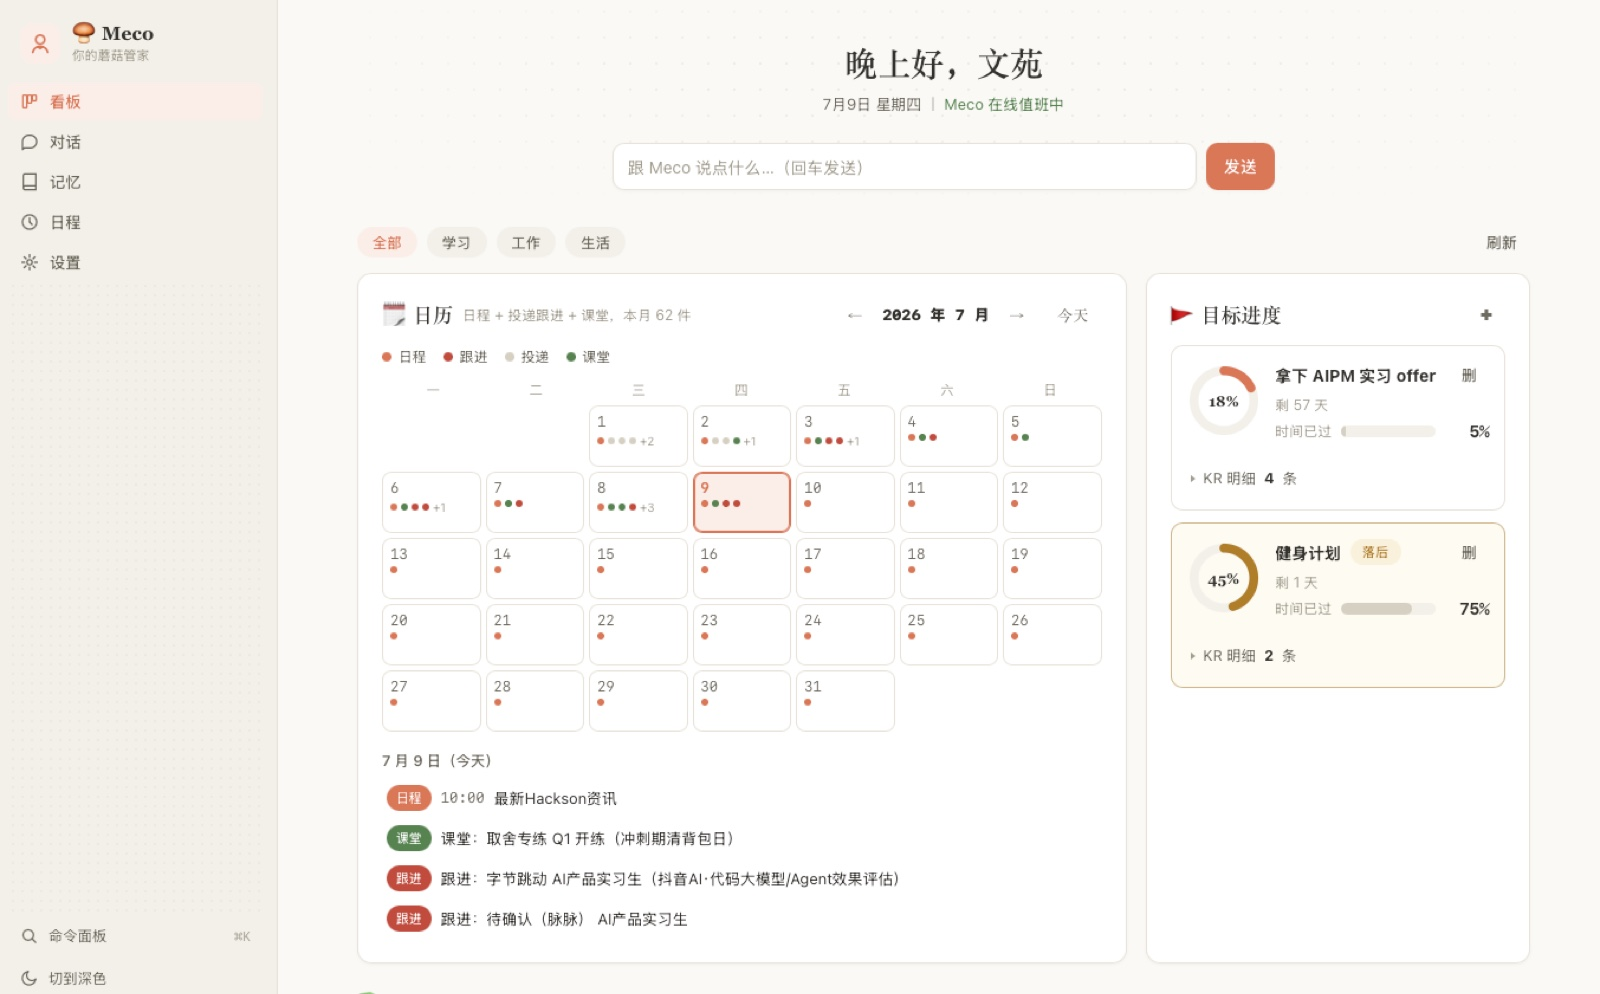
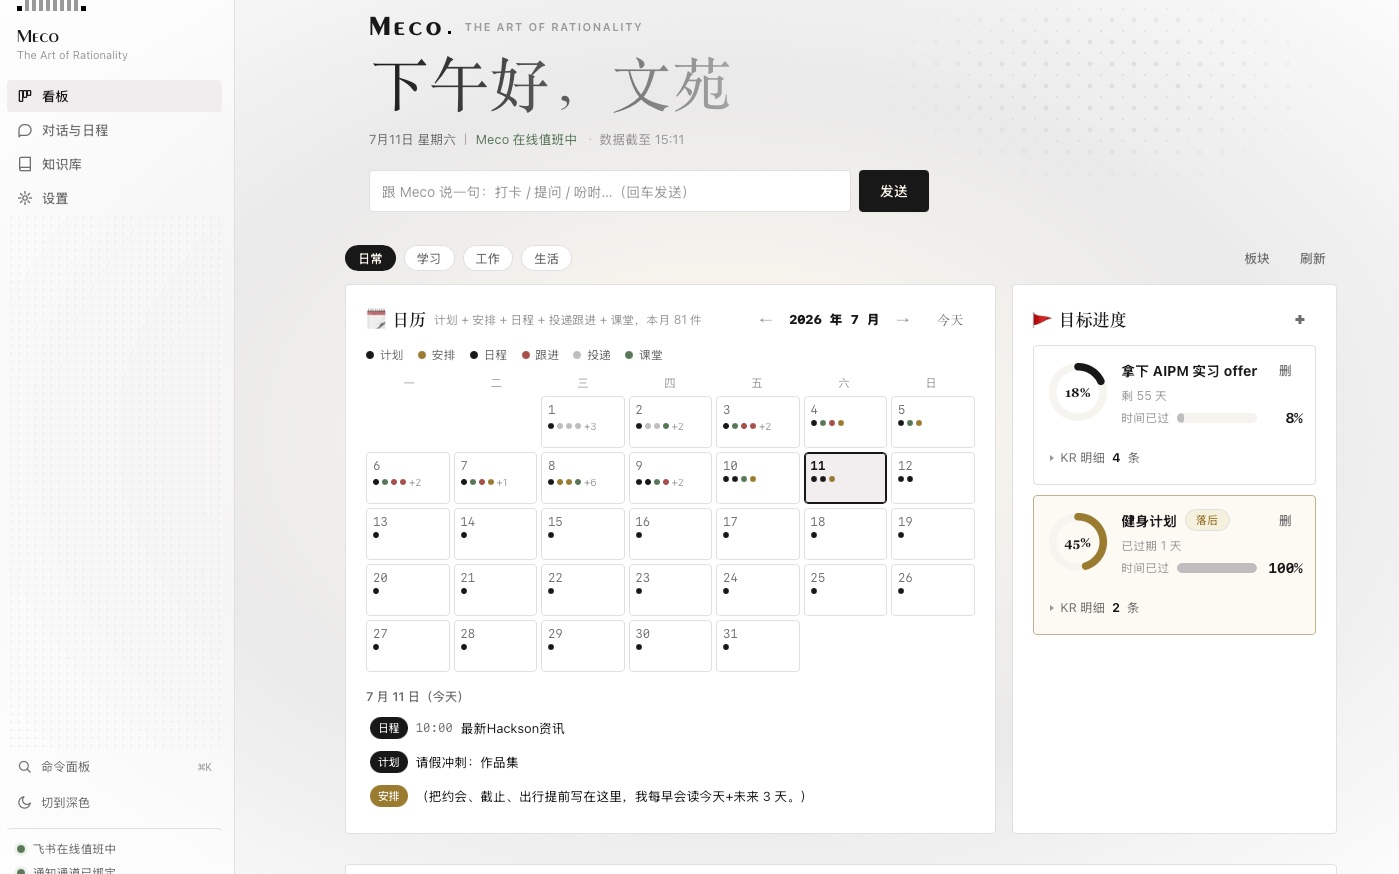
Meco 升级文案与天平线稿接线 · UABB 场景截图入库开 mapped（作品集 23→25 页）

diff --git a/js/project-detail.js b/js/project-detail.js
@@ -10,7 +10,7 @@
      指标带+落地页说明头+落地页大图）→ 线稿块 → 场景行模块 →
      影片块+STACK。连续网页流（照 architecture.html 阅读器），非 A4；
      作品集没放的内容（meta 行/tags/旧内容长图/图注球）画廊也不放。
-   ② 经典模式（建筑作品 + 未开 mapped 的 UABB）：头部（标题/keywords/
+   ② 经典模式（建筑作品）：头部（标题/keywords/
      奖项/Meta/tags）→ 媒体块 → 正文（缺段回退 full_description）→
      Tech Stack → 内容长图 + 文字球。
    ════════════════════════════════════════════════════════════ */

diff --git a/CLAUDE.md b/CLAUDE.md
@@ -44,8 +44,8 @@
 - **立方体面必须实底白**（var(--c-white)）——透明 PNG 封面（梨/拼图）会透出对面；六面=Pears/Co-work/议见/环世界/风贯立方/品牌 SVG（UABB 魔方图不上立方体，用户裁定）
 - 建筑翻页图（content/）一律取**母版完整版面（带页边白）**，不做去白边裁切——上桥曾因裁掉顶部白边与其他五作不一致（2026-07-06 已重导）
 - 详情页两种形态（2026-07-10 起）：
-  - **作品集映射模式**（`portfolio.json products[].mapped=true`，现 Pears/Co-work/议见/Meco 四作）：详情页与作品集页**同一事实源同一排版**——kicker+Monterey 标题+↗+keywords → 顶部视频门面（Pears/Co-work 保持视频在开头，与结尾影片块构成同一入口的两次出现，用户裁定没关系）→ 封面块（tldr 双栏+封面方图+奖项+指标带+落地页说明头+落地页大图）→ 线稿块 → 场景行模块（复用 portfolio.json scenes/rows 语法）→ 影片块（点击就地播放）+STACK。连续网页流照 architecture.html（非 A4），浮出动效照首页（IO + opacity/transform）；**作品集没放的内容（meta 行/tags/旧内容长图/文字球）画廊也不放**，此后两页共同管理，改场景/截图只改 portfolio.json、改文案只改 projects.json。样式在 project-detail.css 的 `.pd-mapped` 段；UABB 产品截图补齐后把 mapped 打开即可同款升级。
-  - **经典模式**（建筑作品 + 未开 mapped 的 UABB）：Monterey 大标题+↗ → 斜体开场段（左对齐引线）→ 章节 h2（衬线）+通栏细线 → 「—」列表（行首「标签：」≤10 字自动加粗）→ 小型大写技术栈 → 白卡图版容器+图注+文字球
+  - **作品集映射模式**（`portfolio.json products[].mapped=true`，现 Pears/Co-work/议见/Meco/UABB 五作全开）：详情页与作品集页**同一事实源同一排版**——kicker+Monterey 标题+↗+keywords → 顶部视频门面（Pears/Co-work 保持视频在开头，与结尾影片块构成同一入口的两次出现，用户裁定没关系）→ 封面块（tldr 双栏+封面方图+奖项+指标带+落地页说明头+落地页大图）→ 线稿块 → 场景行模块（复用 portfolio.json scenes/rows 语法）→ 影片块（点击就地播放）+STACK。连续网页流照 architecture.html（非 A4），浮出动效照首页（IO + opacity/transform）；**作品集没放的内容（meta 行/tags/旧内容长图/文字球）画廊也不放**，此后两页共同管理，改场景/截图只改 portfolio.json、改文案只改 projects.json。样式在 project-detail.css 的 `.pd-mapped` 段。
+  - **经典模式**（建筑作品）：Monterey 大标题+↗ → 斜体开场段（左对齐引线）→ 章节 h2（衬线）+通栏细线 → 「—」列表（行首「标签：」≤10 字自动加粗）→ 小型大写技术栈 → 白卡图版容器+图注+文字球
 - 字体：MontereyFLF woff2×3（拉丁 unicode-range，中文落系统栈）+ Garamond/Georgia 衬线
 
 ## 移动端与触屏（2026-07-07 定稿）
@@ -68,16 +68,16 @@
 
 - **同步铁律**：产品文案（title/one_liner/七段 sections/tech_stack/keywords/award/url）一律运行时 join `config/projects.json`；`config/portfolio.json` 只放作品集特有信息（页序=products 数组序、场景 rows、截图清单+ratio、窗框 frame、指标带 metrics、lineart、个人页 profile、建筑矩阵）。**改产品文案永远改 projects.json**，两边自动同步；`tests/portfolio.test.mjs` 守卫禁文案漂移。
 - **正文页横向行模块铁律（2026-07-08 三轮用户裁定，勿再做左右双栏正文）**：场景页 = 页头（kicker+sec-h）+ 行模块纵向依次码放，每行横向满宽，行只有六种——`{text:true}` 一文 / `{text:true,img:i,img_mm}` 一文一图（少数）/ `{imgs:[i]}` 一图 / 两图 / 三图（等高对齐 flex-grow=ratio）/ `{sec:"节名"}` 独立文字节模块（自带 sec-h 标题引用另一节文案，2026-07-10：画廊详情里写了的节，作品集必须都有）。配置在 `scenes[].rows`（下标引用 images，每图恰好引用一次；sec 必须命中五节之一，tests 守卫）。二迭代的 split/split-band 双栏被用户整体推翻，勿恢复。
-- **版式**：A4 定版 `.sheet`（mm 页盒 + overflow:hidden + break-after:page），共 **23 页**（2026-07-10 补回 Why/核心贡献等未上页文案后）；文案改长会触发溢出探测（屏显红描边 + console.warn），别让它默默裁切。**六作体系**：rail/INDEX 01-06，第 06 项=建筑合集（JS 由 architecture 合成，products 保持 5 项）。**索引双档**：产品封面页=完整 26mm rail；场景/线稿/建筑页=极简 rail（`.rail--mini`，主区加宽到 167mm）。
+- **版式**：A4 定版 `.sheet`（mm 页盒 + overflow:hidden + break-after:page），共 **25 页**（2026-07-11 UABB 产品截图入库、拆 3 场景页后）；文案改长会触发溢出探测（屏显红描边 + console.warn），别让它默默裁切。**六作体系**：rail/INDEX 01-06，第 06 项=建筑合集（JS 由 architecture 合成，products 保持 5 项）。**索引双档**：产品封面页=完整 26mm rail；场景/线稿/建筑页=极简 rail（`.rail--mini`，主区加宽到 167mm）。
 - **作品封面统一紧凑模板**：kicker→标题→keywords→双栏（左 tldr｜右封面方图+奖项）→指标带→**落地页说明头**（小标签「落地页 · THE LANDING PAGE」+ **英文大标题 lede_en（拉丁 Monterey）+ 中文解释 lede_zh 小注**——六轮修正：必须走「英文大标+中文解释」全站口径，话术有人味如「Click once — the agents do the rest. / 点击，然后让 Agent 替你干活。」，用户会自己调词）→底部主要落地页大图+图注；metrics/cover **有字段才渲染**——占位作品日后补字段即自动升级，零代码。（one_liner 不在封面：见线稿块的文字零重复铁律。）
 - **图注铁律（2026-07-08 六轮用户裁定）**：**真实场景截图一律带图注**（caption_zh/en，9.5px 居中灰），包括封面落地页大图；线稿不算真实场景（注释烧在 SVG 内）。
 - **模块间隔铁律（同上）**：**不同内容的模块之间间隔拉大**（如线稿块 ↔ 场景正文 = 13mm、影片块上间距 11mm）；同一模块内的行保持 4-5mm。
 - **线稿标题版式 = 通用分隔模块定式（同上）**：「拉丁 Monterey 核心语句大标题 + 中文小注 + 辅文」左、图右——线稿块与**影片门面**（motto「Watch it work. / 看它跑起来」+ 观看外链 + 海报右）均用此定式；后续需要与正文分隔的异质模块优先套用。
-- **正文排满规则（2026-07-08 用户裁定）**：正文页尽量排满——内容不足半页的模块并入相邻页。落地实现：有场景页的作品，线稿块并入首场景页顶部（不单独成页）；仅无场景页的作品保留独立线稿页。共 **23 页**（3 前页 + Pears 4 / Co-work 4 / 议见 4 / Meco 4 / UABB 2（产品截图仍待补）+ 建筑 1 + 封底；Pears/议见/Meco 各带「brief」文字页=线稿块+Why+核心贡献，UABB 第 2 页=四节纯文字+STACK）。
+- **正文排满规则（2026-07-08 用户裁定）**：正文页尽量排满——内容不足半页的模块并入相邻页。落地实现：有场景页的作品，线稿块并入首场景页顶部（不单独成页）；仅无场景页的作品保留独立线稿页。共 **25 页**（3 前页 + Pears 4 / Co-work 4 / 议见 4 / Meco 4 / UABB 4 + 建筑 1 + 封底；Pears/议见/Meco 各带「brief」文字页=线稿块+Why+核心贡献，UABB 无线稿、首场景页=Why+一文一图+核心贡献混排）。
 - **Mac 窗框三灯 = macOS 原色**（#FF5F57/#FEBC2E/#28C840，2026-07-07 二轮用户裁定）：三灯与截图/封面素材是灰阶体系仅有的色彩例外；个人页人像也保持彩色（勿加黑白滤镜）。
 - **⚠ 体积铁律：打印态禁 CSS filter**——filter 迫使 Chrome 把 JPEG 重栅格成无损位图（实测建筑页 6 图 150KB/张→1MB/张，全册 16MB）。屏显 saturate 调色保留，`@media print` 一律 `filter:none`（portfolio.css 打印块）。
 - **视频/交互影片**：作品集页绝不内嵌 video/iframe（与门面点击约定互斥、打印会空框）——一律 poster + 播放角标 + 外链 `<a>`（PDF 里自动成可点注记）。
-- **PDF 导出**：`bash tools/export-portfolio-pdf.sh`（必须本机 macOS 跑，中文落宋体）→ `uploads/portfolio-ai.pdf`（中）+ `portfolio-ai-en.pdf`（英），母版归档 `../源文件/AI作品集/`。页数应=**23**；**绝不 gs 压缩**（soft-mask 拍扁）；体积靠素材 ≤300KB（`assets/portfolio/`，源图在 `../产品-详情图/`）。
+- **PDF 导出**：`bash tools/export-portfolio-pdf.sh`（必须本机 macOS 跑，中文落宋体）→ `uploads/portfolio-ai.pdf`（中）+ `portfolio-ai-en.pdf`（英），母版归档 `../源文件/AI作品集/`。页数应=**25**；**绝不 gs 压缩**（soft-mask 拍扁）；体积靠素材 ≤300KB（`assets/portfolio/`，源图在 `../产品-详情图/`）。
 - **双语**：`?lang=zh|en` 显式覆盖（无头打印必带）；中文版=英文大标题+中文正文（`.zh-note` 在 EN 版 CSS 隐藏）。
 - **线稿页定式（2026-07-08 用户裁定，后续所有作品的线稿页照此）**：一侧文字｜一侧线稿图，文字侧 = 大标题（**线稿核心语句** `lineart.motto`，拉丁 Monterey + `motto_zh` 中文小注）+ 斜体 one_liner。**文字零重复铁律**：每段文案全册只出现一次——one_liner 归线稿页（有线稿页的作品封面不再渲染 one_liner），keywords 归封面，STACK 归尾场景页；线稿图注烧在 SVG 内不重复排版。Co-work 线稿引用站内 `assets/project/cowork/content/plate-core.svg`（不复制文件=天然同步）。
 - 主站入口：header/foot-nav 的 PORTFOLIO（main.js 注入，≤1023/≤479 断点已为三钮收纳）+ about 作品集区。
